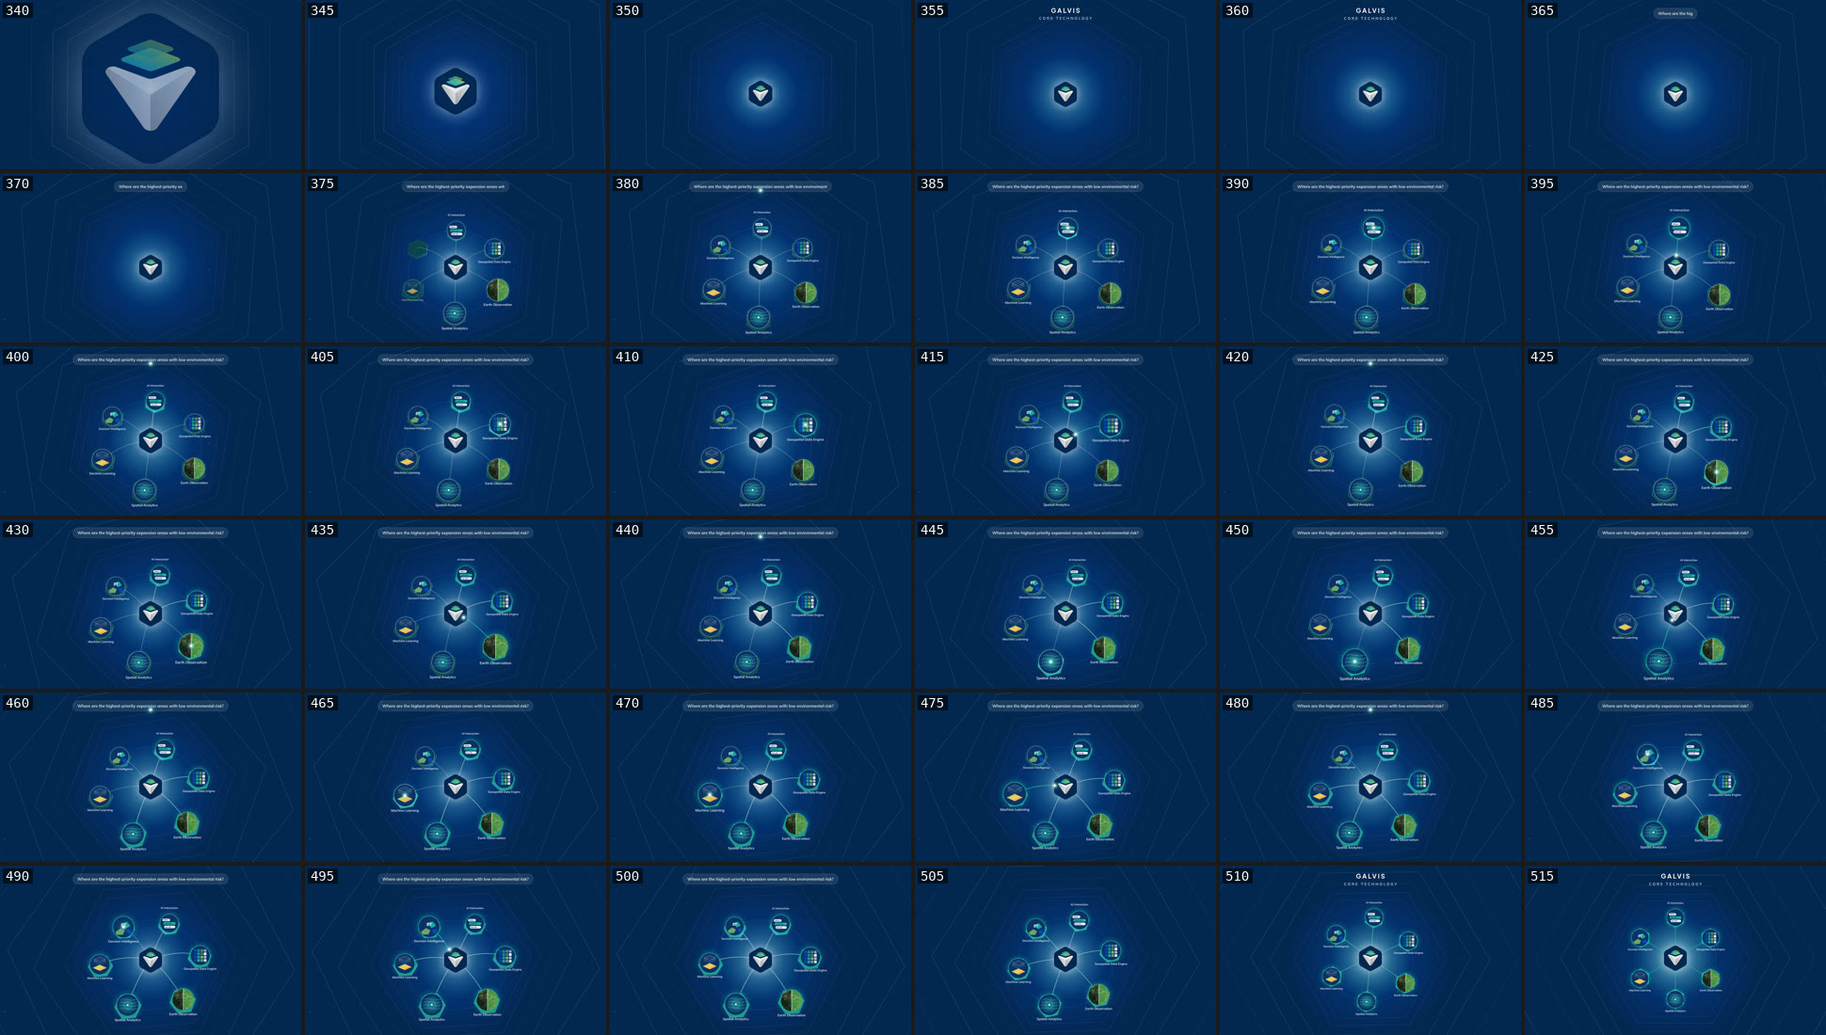
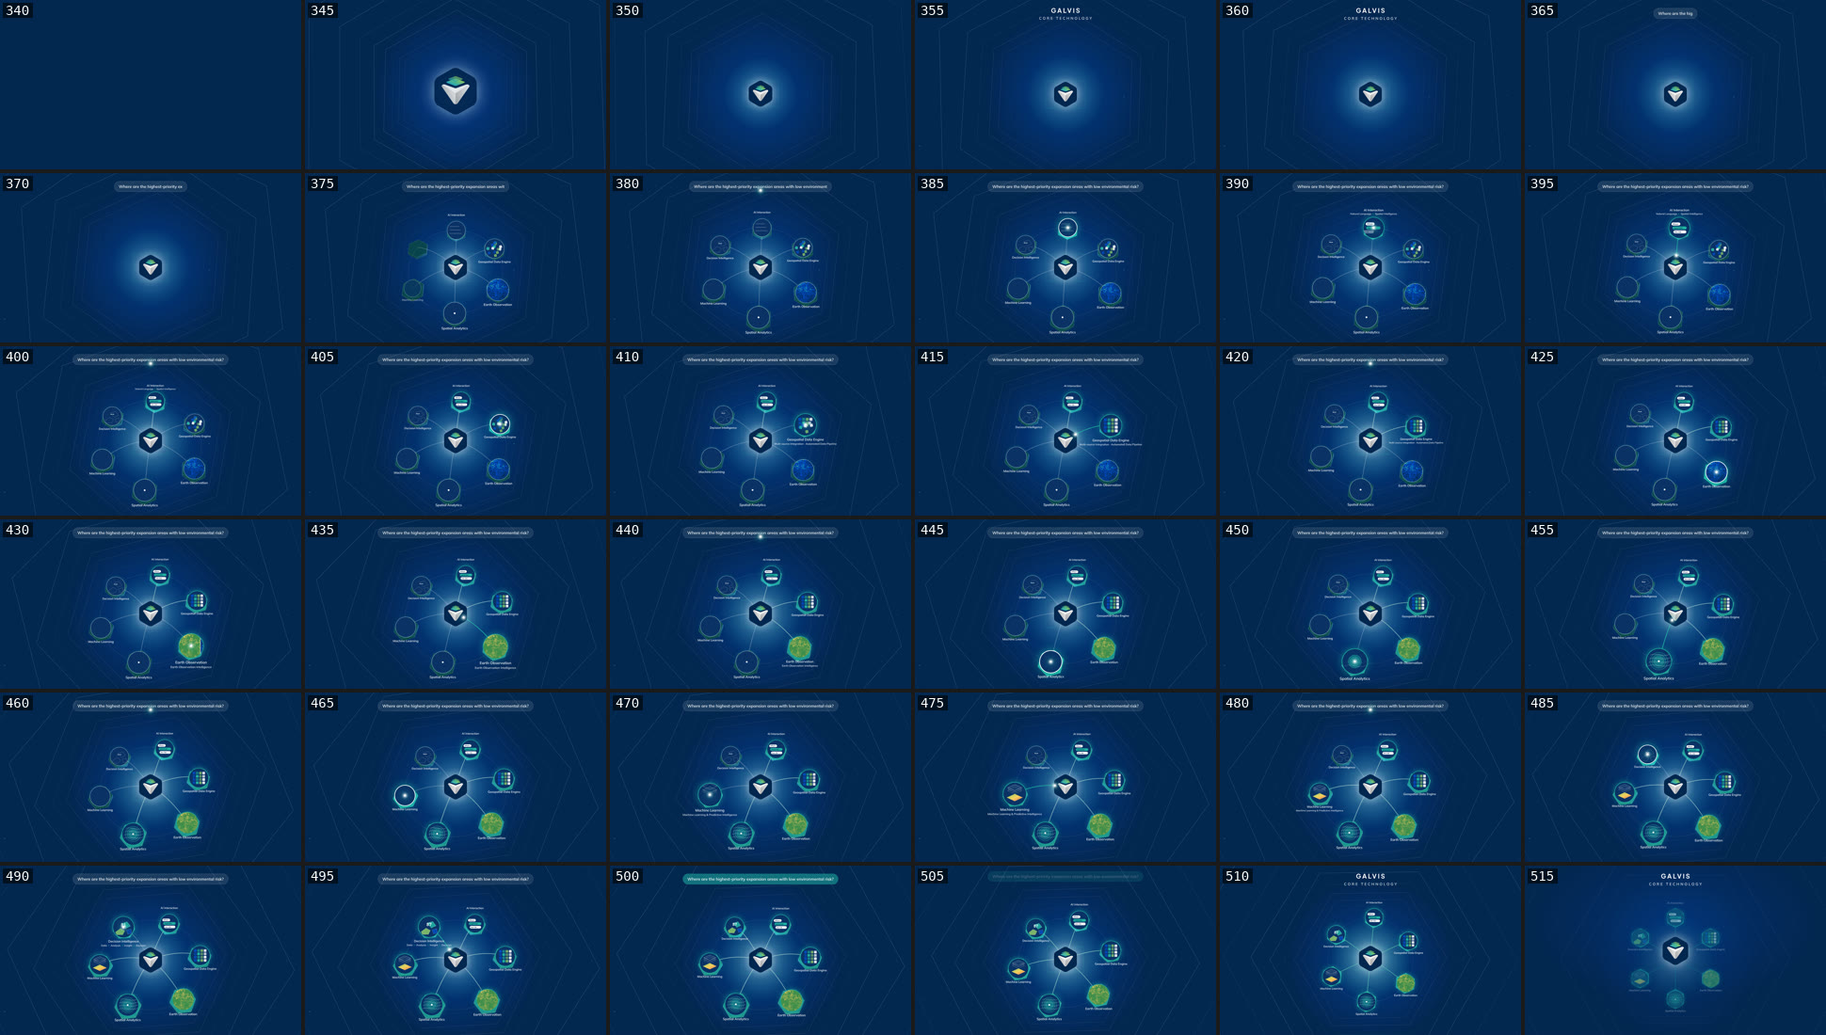
feat(galvis-film): full animation act 04
Module mini-visuals come alive on activation (token ribbon, grid snap, NDVI
scan-beam, buffers and isochrones, predictor stack, rolling score); second
labels from the spec; activations on the beat; the question is answered on
bar 26; the chamber hands over to act 05's opening frame.

Claude-Session: https://claude.ai/code/session_0187RN5xC2Ne3Dptw6LeZ6Ei

diff --git a/projects/galvis-launch-film/compositions/04-core.html b/projects/galvis-launch-film/compositions/04-core.html
@@ -7,6 +7,7 @@
         #act04-core-root { position: absolute; inset: 0; overflow: hidden; background: var(--navy); }
         #act04-core-glow { position: absolute; inset: 0; background: radial-gradient(circle at 960px 600px, rgba(2, 74, 188, 0.55), rgba(3, 39, 80, 0) 520px); }
         #act04-core-entry { position: absolute; inset: 0; background: var(--navy); }
+        #act04-core-outro { position: absolute; inset: 0; opacity: 0; background: radial-gradient(ellipse 900px 520px at 960px 360px, rgba(2, 74, 188, 0.5), rgba(3, 39, 80, 0)); }
         #act04-core-gl { position: absolute; inset: 0; width: 1920px; height: 1080px; display: block; }
         .act04-core-anchor { position: absolute; left: 0; top: 0; width: 0; height: 0; }
         #act04-core-name {
@@ -35,6 +36,10 @@
           position: absolute; left: 0; top: 0; opacity: 0; width: 14px; height: 14px; margin: -7px 0 0 -7px; border-radius: 50%; background: #fff;
           box-shadow: 0 0 14px 6px rgba(255, 255, 255, 0.9), 0 0 40px 14px rgba(31, 175, 161, 0.6);
         }
+        .act04-core-sub {
+          position: absolute; left: 50%; width: 360px; margin-left: -180px; text-align: center; white-space: nowrap;
+          font-family: var(--font-text); font-weight: 600; font-size: 15px; color: var(--cool-gray); opacity: 0;
+        }
         .act04-core-name {
           position: absolute; left: 50%; width: 260px; margin-left: -130px; text-align: center;
           font-family: var(--font-text); font-weight: 600; font-size: 19px; color: var(--white); line-height: 1.25;
@@ -42,6 +47,7 @@
       </style>
       <div id="act04-core-root" data-composition-id="act04-core" data-width="1920" data-height="1080">
         <div id="act04-core-glow"></div>
+        <div id="act04-core-outro"></div>
         <canvas id="act04-core-gl" width="1920" height="1080" data-layout-allow-overflow></canvas>
         <div id="act04-core-mods"></div>
         <div id="act04-core-name"></div>
@@ -72,50 +78,119 @@
           // The chamber is a Three.js scene; the logo, module visuals and labels are DOM pinned to it.
           const chamber = GV3D.mountCoreScene({ canvas: $('gl'), count: order.length });
 
-          const svg = (inner) => `<svg viewBox="0 0 124 124">${inner}</svg>`;
+          // Module visuals are alive: each draws its own story from p (0 before the module is activated,
+          // 0→1 over 1.2 s after) and t (for idle motion once done).
+          const NS = 'http://www.w3.org/2000/svg';
+          const svgEl = (tag, attrs = {}) => { const e = document.createElementNS(NS, tag); for (const [k, v] of Object.entries(attrs)) e.setAttribute(k, v); return e; };
+          const box = () => svgEl('svg', { viewBox: '0 0 124 124' });
+          const clamp01 = (k) => Math.min(1, Math.max(0, k));
+          const out = (k) => 1 - Math.pow(1 - clamp01(k), 3);
           const rnd = GV.seeded(4);
           const visuals = {
-            ai: () => svg(GV.COPY['core.tokens'].map((w, i) =>
-              `<rect x="${14 + i * 6}" y="${30 + i * 24}" width="${w.length * 8 + 14}" height="18" rx="9" fill="${i === 1 ? '#1FAFA1' : '#FFFFFF'}" fill-opacity="${i === 1 ? 1 : 0.9}"/>` +
-              `<text x="${21 + i * 6}" y="${43 + i * 24}" font-family="Mulish" font-weight="700" font-size="11" fill="#032750">${w}</text>`).join('')),
-            data: () => svg(Array.from({ length: 16 }, (_, k) => {
-              const x = 22 + (k % 4) * 21, y = 22 + Math.floor(k / 4) * 21;
-              return `<rect x="${x}" y="${y}" width="17" height="17" rx="3" fill="${['#024ABC', '#1FAFA1', '#86C36A', '#FFFFFF'][k % 4]}" fill-opacity="${(0.45 + rnd() * 0.55).toFixed(2)}"/>`;
-            }).join('')),
+            // The question's key words become a token ribbon.
+            ai: () => {
+              const el = box();
+              const tokens = GV.COPY['core.tokens'].map((w, i) => {
+                const g = svgEl('g');
+                g.append(svgEl('rect', { x: 14 + i * 6, y: 30 + i * 24, width: w.length * 8 + 14, height: 18, rx: 9, fill: i === 1 ? '#1FAFA1' : '#FFFFFF' }));
+                const tx = svgEl('text', { x: 21 + i * 6, y: 43 + i * 24, 'font-family': 'Mulish', 'font-weight': 700, 'font-size': 11, fill: '#032750' });
+                tx.textContent = w;
+                g.append(tx);
+                el.append(g);
+                return g;
+              });
+              const raw = [0, 1, 2].map((i) => { const l = svgEl('rect', { x: 16, y: 34 + i * 24, width: 64 + i * 10, height: 3, rx: 1.5, fill: '#FFFFFF', 'fill-opacity': 0.35 }); el.append(l); return l; });
+              return { el, draw: (p) => {
+                tokens.forEach((g, i) => { const e = out((p - i * 0.18) / 0.35); g.setAttribute('transform', `translate(${(-70 * (1 - e)).toFixed(1)} 0)`); g.setAttribute('opacity', e.toFixed(3)); });
+                raw.forEach((l) => l.setAttribute('fill-opacity', (0.35 * (1 - clamp01(p * 3))).toFixed(3)));
+              } };
+            },
+            // A messy pile of plates snaps into one standard grid.
+            data: () => {
+              const el = box();
+              const tiles = Array.from({ length: 16 }, (_, k) => {
+                const r = svgEl('rect', { width: 17, height: 17, rx: 3, fill: ['#024ABC', '#1FAFA1', '#86C36A', '#FFFFFF'][k % 4], 'fill-opacity': (0.45 + rnd() * 0.55).toFixed(2) });
+                el.append(r);
+                return { r, gx: 22 + (k % 4) * 21, gy: 22 + Math.floor(k / 4) * 21, sx: 10 + rnd() * 90, sy: 10 + rnd() * 90, rot: (rnd() - 0.5) * 70 };
+              });
+              return { el, draw: (p) => tiles.forEach((tile, k) => {
+                const e = out((p - k * 0.025) / 0.45);
+                const x = tile.sx + (tile.gx - tile.sx) * e, y = tile.sy + (tile.gy - tile.sy) * e;
+                tile.r.setAttribute('transform', `translate(${x.toFixed(1)} ${y.toFixed(1)}) rotate(${(tile.rot * (1 - e)).toFixed(1)} 8.5 8.5)`);
+              }) };
+            },
+            // A scan-beam turns a raw (dithered) Sentinel tile into a greenness index, left to right.
             eo: async () => {
-              // Left half true colour, right half a greenness index from the same pixels.
-              const img = await GV.loadImage('assets/sentinel/riau-plantation.jpg');
-              const c = document.createElement('canvas');
-              c.width = 124; c.height = 124;
-              const g = c.getContext('2d');
-              g.drawImage(img, 700, 900, 520, 520, 0, 0, 124, 124);
-              const d = g.getImageData(62, 0, 62, 124);
+              const SRC = 'assets/sentinel/riau-plantation.jpg', CROP = [700 / 1920, 900 / 1907, 520 / 1920, 520 / 1907];
+              const raw = await GV.ditheredCanvas(SRC, 124, 124, { palette: 'brand', cell: 3, crop: CROP });
+              const ndvi = await GV.ditheredCanvas(SRC, 124, 124, { palette: 'brand', cell: 3, crop: CROP, resolve: 1 });
+              const ng = ndvi.getContext('2d');
+              const d = ng.getImageData(0, 0, 124, 124);
               for (let i = 0; i < d.data.length; i += 4) {
                 const [r, gr] = [d.data[i], d.data[i + 1]];
-                // Index ramp: dry yellow (#E8C860) to dense green (#3E8E4A).
-                const v = Math.max(0, Math.min(1, ((gr - r) / (gr + r + 1)) * 3 + 0.3));
+                const v = Math.max(0, Math.min(1, ((gr - r) / (gr + r + 1)) * 3 + 0.3)); // dry yellow → dense green
                 d.data[i] = 232 - v * 170; d.data[i + 1] = 200 - v * 58; d.data[i + 2] = 96 - v * 22;
               }
-              g.putImageData(d, 62, 0);
-              g.fillStyle = '#FFFFFF';
-              g.fillRect(61, 0, 2, 124);
-              return c;
+              ng.putImageData(d, 0, 0);
+              const el = document.createElement('canvas');
+              el.width = el.height = 124;
+              const g = el.getContext('2d');
+              return { el, draw: (p) => {
+                const x = Math.round(124 * out(p / 0.8));
+                g.drawImage(raw, 0, 0);
+                if (x > 0) g.drawImage(ndvi, 0, 0, x, 124, 0, 0, x, 124);
+                if (x > 0 && x < 124) { g.fillStyle = '#FFFFFF'; g.fillRect(x - 1, 0, 2, 124); }
+              } };
             },
-            analytics: () => svg(
-              [44, 34, 24].map((r, i) => `<circle cx="62" cy="62" r="${r}" fill="#1FAFA1" fill-opacity="${0.12 + i * 0.12}" stroke="#1FAFA1" stroke-width="1.2"/>`).join('') +
-              [0, 1, 2, 3].map((k) => `<path d="M${8 + k * 4} ${86 - k * 18} C40 ${70 - k * 18}, 80 ${100 - k * 18}, 120 ${80 - k * 18}" fill="none" stroke="#FFFFFF" stroke-opacity="0.55" stroke-width="1.2"/>`).join('') +
-              '<circle cx="62" cy="62" r="5" fill="#FFFFFF"/>'),
-            ml: () => svg(
-              '<defs><linearGradient id="act04-core-prob" x1="0" y1="0" x2="1" y2="1"><stop offset="0" stop-color="#86C36A"/><stop offset="0.5" stop-color="#F2D15C"/><stop offset="1" stop-color="#E8705B"/></linearGradient></defs>' +
-              [0, 1, 2].map((k) => `<path d="M24 ${46 - k * 9} L62 ${30 - k * 9} L100 ${46 - k * 9} L62 ${62 - k * 9} Z" fill="none" stroke="#FFFFFF" stroke-opacity="${0.4 + k * 0.2}" stroke-width="1.2"/>`).join('') +
-              '<path d="M18 82 L62 62 L106 82 L62 102 Z" fill="url(#act04-core-prob)"/>'),
-            decision: () => svg(
-              '<path d="M14 92 L44 70 L70 84 L58 108 L22 108 Z" fill="#86C36A" fill-opacity="0.8"/>' +
-              '<path d="M50 40 L84 30 L104 56 L76 70 Z" fill="#1FAFA1" fill-opacity="0.9"/>' +
-              '<path d="M80 80 L108 74 L112 100 L88 104 Z" fill="#024ABC"/>' +
-              '<text x="62" y="58" text-anchor="middle" font-family="JetBrains Mono" font-weight="700" font-size="26" fill="#FFFFFF">87</text>'),
+            // Buffers grow from the point and isochrones ripple.
+            analytics: () => {
+              const el = box();
+              const rings = [44, 34, 24].map((r, i) => { const c = svgEl('circle', { cx: 62, cy: 62, r: 0, fill: '#1FAFA1', 'fill-opacity': 0.12 + i * 0.12, stroke: '#1FAFA1', 'stroke-width': 1.2 }); el.append(c); return { c, r }; });
+              const isos = [0, 1, 2, 3].map(() => { const pth = svgEl('path', { fill: 'none', stroke: '#FFFFFF', 'stroke-opacity': 0.55, 'stroke-width': 1.2 }); el.append(pth); return pth; });
+              el.append(svgEl('circle', { cx: 62, cy: 62, r: 5, fill: '#FFFFFF' }));
+              return { el, draw: (p, t) => {
+                rings.forEach(({ c, r }, i) => c.setAttribute('r', (r * out((p - (2 - i) * 0.12) / 0.5)).toFixed(2)));
+                isos.forEach((pth, k) => {
+                  const e = out((p - 0.3 - k * 0.08) / 0.4), w = 4 * Math.sin(t * 2.2 + k);
+                  pth.setAttribute('d', `M${8 + k * 4} ${86 - k * 18} C40 ${70 - k * 18 + w}, 80 ${100 - k * 18 - w}, 120 ${80 - k * 18}`);
+                  pth.setAttribute('stroke-opacity', (0.55 * e).toFixed(3));
+                });
+              } };
+            },
+            // Predictor layers drop into a stack; a probability surface forms beneath them.
+            ml: () => {
+              const el = box();
+              const defs = svgEl('defs');
+              defs.innerHTML = '<linearGradient id="act04-core-prob" x1="0" y1="0" x2="1" y2="1"><stop offset="0" stop-color="#86C36A"/><stop offset="0.5" stop-color="#F2D15C"/><stop offset="1" stop-color="#E8705B"/></linearGradient>';
+              el.append(defs);
+              const surface = svgEl('path', { d: 'M18 82 L62 62 L106 82 L62 102 Z', fill: 'url(#act04-core-prob)' });
+              el.append(surface);
+              const layers = [0, 1, 2].map((k) => { const pth = svgEl('path', { d: `M24 ${46 - k * 9} L62 ${30 - k * 9} L100 ${46 - k * 9} L62 ${62 - k * 9} Z`, fill: 'none', stroke: '#FFFFFF', 'stroke-opacity': 0.4 + k * 0.2, 'stroke-width': 1.2 }); el.append(pth); return pth; });
+              return { el, draw: (p) => {
+                layers.forEach((pth, k) => { const e = out((p - k * 0.15) / 0.35); pth.setAttribute('transform', `translate(0 ${(-40 * (1 - e)).toFixed(1)})`); pth.setAttribute('opacity', e.toFixed(3)); });
+                surface.setAttribute('opacity', out((p - 0.5) / 0.4).toFixed(3));
+              } };
+            },
+            // Priority zones fill in order and the score rolls up.
+            decision: () => {
+              const el = box();
+              const zones = [
+                ['M14 92 L44 70 L70 84 L58 108 L22 108 Z', '#86C36A'],
+                ['M50 40 L84 30 L104 56 L76 70 Z', '#1FAFA1'],
+                ['M80 80 L108 74 L112 100 L88 104 Z', '#024ABC'],
+              ].map(([d, fill]) => { const z = svgEl('path', { d, fill, stroke: '#FFFFFF', 'stroke-opacity': 0.5, 'stroke-width': 1 }); el.append(z); return z; });
+              const score = svgEl('text', { x: 62, y: 58, 'text-anchor': 'middle', 'font-family': 'JetBrains Mono', 'font-weight': 700, 'font-size': 26, fill: '#FFFFFF' });
+              el.append(score);
+              return { el, draw: (p) => {
+                zones.forEach((z, k) => z.setAttribute('fill-opacity', (0.9 * out((p - k * 0.15) / 0.3)).toFixed(3)));
+                score.textContent = p <= 0 ? '--' : String(Math.round(87 * out(p / 0.7)));
+              } };
+            },
           };
 
+          // Second labels (spec table): parts joined by a chevron; not repeated when equal to the name.
+          const CHEVRON = '<svg viewBox="0 0 24 24" width="12" height="12" style="display:inline-block;vertical-align:-1px;margin:0 5px"><path d="M8 4l8 8-8 8" fill="none" stroke="#1FAFA1" stroke-width="3" stroke-linecap="round" stroke-linejoin="round"/></svg>';
+          const esc = (x) => x.replace(/[&<>]/g, (c) => ({ '&': '&amp;', '<': '&lt;', '>': '&gt;' })[c]);
           const mods = [];
           for (const [i, key] of order.entries()) {
             const anchor = document.createElement('div');
@@ -124,24 +199,29 @@
             mod.className = `${id}-mod`;
             const disc = document.createElement('div');
             disc.className = `${id}-disc`;
-            const v = await visuals[key]();
-            if (typeof v === 'string') disc.innerHTML = v; else disc.append(v);
+            const vis = await visuals[key]();
+            disc.append(vis.el);
             const name = document.createElement('div');
             name.className = `${id}-name`;
             name.textContent = GV.COPY[`core.mod.${key}`];
             // Labels sit outside the ring: above the top module, below the others.
             name.style.top = i === 0 ? '-56px' : '136px';
-            mod.append(disc, name);
+            const parts = GV.COPY[`core.sub.${key}`];
+            const sub = document.createElement('div');
+            sub.className = `${id}-sub`;
+            if (parts.join(' ') !== name.textContent) sub.innerHTML = parts.map(esc).join(CHEVRON);
+            sub.style.top = i === 0 ? '-32px' : '162px';
+            mod.append(disc, name, sub);
             anchor.append(mod);
             $('mods').append(anchor);
-            mods.push({ anchor, mod, disc });
+            mods.push({ anchor, mod, disc, vis, sub });
           }
 
           // The whole chamber is a function of time: camera, orbit, glows, packet and the DOM pinned to it.
           const ease = (k) => (k <= 0 ? 0 : k >= 1 ? 1 : k * k * (3 - 2 * k));
           const lerp = (a, b, k) => a + (b - a) * k;
-          const clamp01 = (k) => Math.min(1, Math.max(0, k));
           const STEP = order.map((_, k) => A(20 + k));
+          const ACTIVE = STEP.map((s) => s + 0.5); // on the beat after each bar line, when the packet arrives
           const ARRIVE = 0.5, LEAVE = 1.1, HOME = 1.55;
           const state = (t) => {
             const fly = 1 - Math.pow(1 - clamp01(t / 1.6), 3);
@@ -153,7 +233,7 @@
               tilt: lerp(-0.5, 0, back) * ease((t - A(19)) / 1.2),
               spin: lerp(spinAt(Math.min(t, A(26))), 0, back),
               orbitScale: ease((t - A(19, 2)) / 0.6),
-              glow: STEP.map((s) => (t < s + 0.45 ? 0 : 0.55 + 0.45 * Math.exp(-(t - s - 0.45) * 2.5)) + (t >= A(26) ? 0.45 * back : 0)),
+              glow: ACTIVE.map((a) => (t < a ? 0 : 0.55 + 0.45 * Math.exp(-(t - a) * 2.5)) + (t >= A(26) ? 0.45 * back : 0)),
               cable: STEP.map((s) => (t < s + LEAVE ? 0 : t < s + HOME ? 1 : 0.6) + (t >= A(26) ? 0.4 * back : 0)),
               core: Math.min(1, 0.4 + STEP.reduce((m, s) => m + (t >= s + HOME ? 0.6 * Math.exp(-(t - s - HOME) * 3) : 0), 0) + 0.6 * back),
             };
@@ -164,12 +244,23 @@
             el.style.transform = `translate(${x.toFixed(1)}px, ${y.toFixed(1)}px) scale(${k.toFixed(3)})${extra}`;
           };
           const packet = $('packet');
+          // Last second: the chamber falls away and the logo settles where act 05 opens (960, 510.5, 1.2×).
+          const OUTRO = A(26, 2), OUTRO_DUR = 0.9;
           const apply = (t) => {
             const st = state(t);
             chamber.render(st);
-            mods.forEach((m, i) => place(m.anchor, chamber.moduleScreen(i)));
-            const [hx, hy] = chamber.coreScreen();
-            $('heartpos').style.transform = `translate(${hx.toFixed(1)}px, ${hy.toFixed(1)}px)`;
+            mods.forEach((m, i) => {
+              place(m.anchor, chamber.moduleScreen(i));
+              m.vis.draw(t < ACTIVE[i] ? 0 : Math.min(1, (t - ACTIVE[i]) / 1.2), t);
+              const until = i < ACTIVE.length - 1 ? ACTIVE[i + 1] : A(26);
+              m.sub.style.opacity = String(Math.min(GV.since(t, ACTIVE[i], 0.25), 1 - GV.since(t, until - 0.25, 0.25)));
+            });
+            const [cx, cy] = chamber.coreScreen();
+            const o = GV.since(t, OUTRO, OUTRO_DUR, (k) => k * k * (3 - 2 * k));
+            const hx = lerp(cx, 960, o), hy = lerp(cy, 510.5, o);
+            $('heartpos').style.transform = `translate(${hx.toFixed(1)}px, ${hy.toFixed(1)}px) scale(${(1 + 0.205 * o).toFixed(4)})`;
+            for (const el of [$('gl'), $('mods'), $('glow')]) el.style.opacity = String(1 - o);
+            $('outro').style.opacity = String(o);
             // The packet: down from the question to the module, then along its cable into the core.
             const k = STEP.findLastIndex((s) => t >= s && t < s + HOME);
             if (k < 0) { packet.style.opacity = '0'; return; }
@@ -216,16 +307,21 @@
           tl.to(mods.map((m) => m.mod), { scale: 1, opacity: 1, duration: 0.5, stagger: 0.1, ease: 'back.out(1.6)' }, A(19, 2));
 
           // Bars 20-25: one question runs the engine, one module per bar (the packet is placed by apply()).
-          STEP.forEach((t0, k) => {
-            tl.to(mods[k].mod, { scale: 1.15, duration: 0.3, ease: 'back.out(2)' }, t0 + 0.45);
-            tl.to(mods[k].disc, { boxShadow: '0 0 0 3px #1FAFA1, 0 0 40px rgba(31,175,161,0.8)', duration: 0.3 }, t0 + 0.45);
-            tl.to(mods[k].mod, { scale: 1, duration: 0.3 }, t0 + 1.7);
+          // Each module lights on its beat: a hard teal ring and a pop, then it settles.
+          ACTIVE.forEach((a, k) => {
+            tl.set(mods[k].disc, { boxShadow: '0 0 0 4px #FFFFFF, 0 0 56px rgba(31,175,161,1)' }, a);
+            tl.to(mods[k].disc, { boxShadow: '0 0 0 3px #1FAFA1, 0 0 40px rgba(31,175,161,0.8)', duration: 0.5, ease: 'power2.out' }, a + 1 / 30);
+            tl.fromTo(mods[k].mod, { scale: 1 }, { scale: 1.15, duration: 0.25, ease: 'expo.out', immediateRender: false }, a);
+            tl.to(mods[k].mod, { scale: 1, duration: 0.3 }, a + 1.2);
           });
 
           // Bar 26: every module lit together; the question leaves and the header returns.
           tl.to(mods.map((m) => m.mod), { scale: 1.06, duration: 0.4, stagger: 0.04 }, A(26));
-          tl.to($('question'), { opacity: 0, duration: 0.3 }, A(26));
+          // The question is answered on bar 26: its pill flashes teal on the beat, then lifts away.
+          tl.set($('question'), { backgroundColor: 'rgba(31,175,161,0.55)', borderColor: '#1FAFA1' }, A(26));
+          tl.to($('question'), { opacity: 0, y: -24, duration: 0.45, ease: 'power2.in' }, A(26) + 0.1);
           tl.to([$('name'), $('label')], { opacity: 1, duration: 0.5, stagger: 0.1 }, A(26, 1));
+          tl.to($('packet'), { opacity: 0, duration: 0.2 }, OUTRO);
         }, 18);
       </script>
     </template>

diff --git a/projects/galvis-launch-film/shared/gv.js b/projects/galvis-launch-film/shared/gv.js
@@ -74,6 +74,28 @@ var GV = (() => {
     "core.mod.analytics": "Spatial Analytics",
     "core.mod.ml": "Machine Learning",
     "core.mod.decision": "Decision Intelligence",
+    "core.sub.ai": [
+      "Natural Language",
+      "Spatial Intelligence"
+    ],
+    "core.sub.data": [
+      "Multi-source Integration \xB7 Automated Data Pipeline"
+    ],
+    "core.sub.eo": [
+      "Earth Observation Intelligence"
+    ],
+    "core.sub.analytics": [
+      "Spatial Analytics"
+    ],
+    "core.sub.ml": [
+      "Machine Learning & Predictive Intelligence"
+    ],
+    "core.sub.decision": [
+      "Data",
+      "Analysis",
+      "Insight",
+      "Decision"
+    ],
     "products.one": "ONE INTELLIGENCE CORE.",
     "products.three": "THREE WAYS TO USE IT.",
     "products.workspace": "GALVIS WORKSPACE",
@@ -311,6 +333,13 @@ var GV = (() => {
       { t: 28.5, act: "act03-reveal", what: "VIS", box: [960, 590, 380, 115] },
       { t: 30, act: "act03-reveal", what: "full name", box: [580, 746, 760, 36] },
       { t: 32, act: "act03-reveal", what: "sub line", box: [650, 808, 620, 26] },
+      { t: 38.5, act: "act04-core", what: "module ai active", box: [840, 220, 260, 260] },
+      { t: 40.5, act: "act04-core", what: "module data active", box: [1100, 360, 260, 260] },
+      { t: 42.5, act: "act04-core", what: "module eo active", box: [1100, 680, 260, 260] },
+      { t: 44.5, act: "act04-core", what: "module analytics active", box: [740, 780, 260, 260] },
+      { t: 46.5, act: "act04-core", what: "module ml active", box: [500, 540, 260, 260] },
+      { t: 48.5, act: "act04-core", what: "module decision active", box: [660, 280, 260, 260] },
+      { t: 50, act: "act04-core", what: "question answered", box: [580, 48, 760, 70] },
       { t: 56, act: "act05-products", what: "impact: split", box: [0, 0, 1920, 1080] },
       { t: 58, act: "act05-products", what: "GALVIS WORKSPACE", box: [190, 840, 460, 80] },
       { t: 58.5, act: "act05-products", what: "GALVIS DATA ENRICHMENT", box: [730, 840, 460, 80] },
